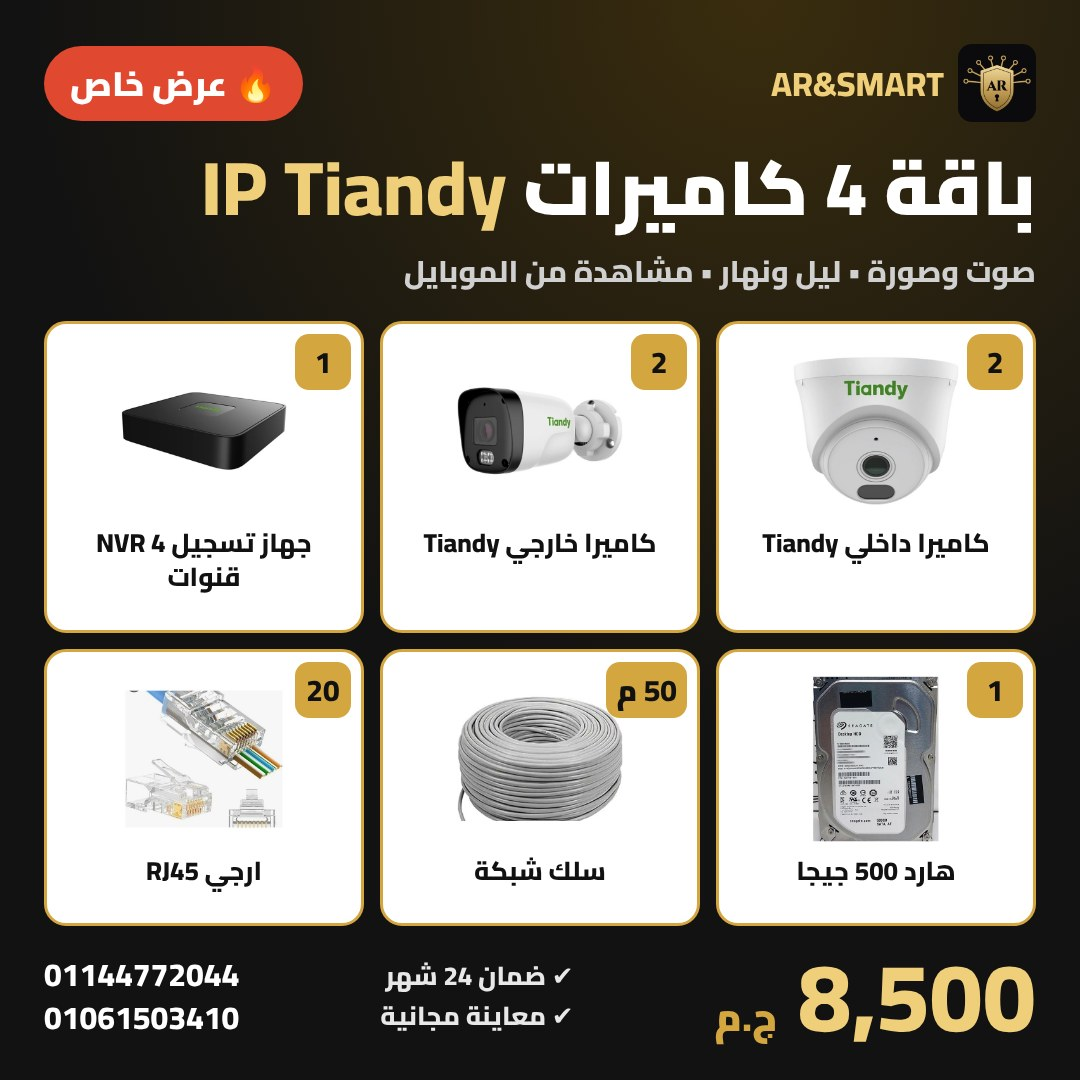
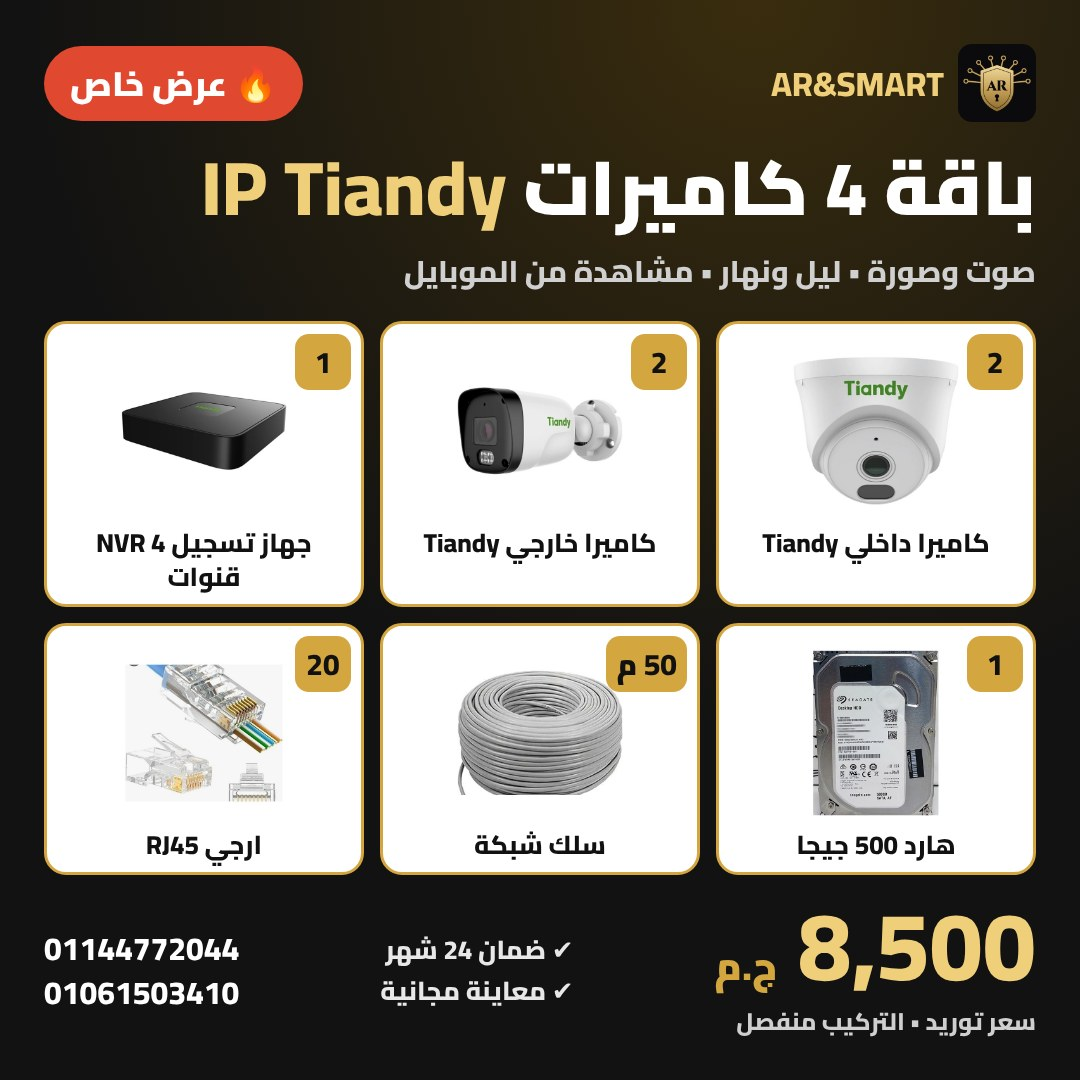
Offers: supply price, installation separate
Claude-Session: https://claude.ai/code/session_01BF18cvKDawFTu2vPtybSxZ

Changed region(s): [[0.0306, 0.55, 0.9778, 0.9778]]

diff --git a/index.html b/index.html
@@ -205,6 +205,7 @@ button{font:inherit}
 .off-shots{display:grid;grid-template-columns:1fr 1fr;gap:8px}.off-shots a{position:relative;display:block;border-radius:10px;overflow:hidden;border:1px solid var(--line)}.off-shots img{width:100%;aspect-ratio:16/9;object-fit:cover;display:block}.off-shots span{position:absolute;inset:auto 0 0 0;background:linear-gradient(transparent,rgba(0,0,0,.85));color:#fff;font-size:.78rem;padding:14px 8px 5px}
 .off-perks{list-style:none;margin:0;padding:0;display:flex;flex-wrap:wrap;gap:6px 14px;color:var(--ink);font-size:.9rem}
 .off-foot{display:flex;align-items:center;justify-content:space-between;gap:12px;flex-wrap:wrap;margin-top:4px}
+.off-note{color:var(--muted);font-size:.82rem}
 .off-price{font-family:var(--display);font-size:2.1rem;font-weight:700;color:var(--gold2)}.off-price small{font-size:1rem;color:var(--gold)}
 @media (max-width:420px){.off-foot .btn{flex:1 1 100%}}
 .stats{display:grid;grid-template-columns:repeat(3,1fr);gap:8px}
@@ -578,10 +579,10 @@ const quickForm=()=>`<form class="panel form" id="quickForm" novalidate>
 
 /* ===== العروض: لإضافة عرض جديد ضيف عنصر في OFFERS ===== */
 const OFFERS=[
- {id:"cam4",tag:"عرض كاميرات",title:"باقة 4 كاميرات IP Tiandy",sub:"2 داخلي + 2 خارجي — صوت وصورة، ليل ونهار، ومشاهدة من الموبايل.",banner:"img/off/banner-cam4.jpg",
+ {id:"cam4",tag:"عرض كاميرات",title:"باقة 4 كاميرات IP Tiandy",sub:"2 داخلي + 2 خارجي — صوت وصورة، ليل ونهار، ومشاهدة من الموبايل.",banner:"img/off/banner-cam4.jpg?v=2",
   items:[["dome","2","كاميرا داخلي Tiandy IP"],["bullet","2","كاميرا خارجي Tiandy IP"],["nvr","1","جهاز تسجيل NVR 4 قنوات"],["hdd500","1","هارد 500 جيجا"],["cable","50 م","سلك شبكة"],["rj45","20","ارجي RJ45"]],
   price:8500},
- {id:"cam8",tag:"عرض كاميرات",title:"باقة 8 كاميرات IP Tiandy",sub:"4 داخلي + 4 خارجي — صوت وصورة، ليل ونهار، ومشاهدة من الموبايل.",banner:"img/off/banner-cam8.jpg",
+ {id:"cam8",tag:"عرض كاميرات",title:"باقة 8 كاميرات IP Tiandy",sub:"4 داخلي + 4 خارجي — صوت وصورة، ليل ونهار، ومشاهدة من الموبايل.",banner:"img/off/banner-cam8.jpg?v=2",
   items:[["dome","4","كاميرا داخلي Tiandy IP"],["bullet","4","كاميرا خارجي Tiandy IP"],["nvr","1","جهاز تسجيل NVR 8 قنوات"],["hdd1t","1","هارد WD Purple 1 تيرا"],["cable","100 م","سلك شبكة Cat6"],["rj45","20","ارجي RJ45"]],
   price:13500}
 ];
@@ -590,8 +591,8 @@ const offerCard=o=>`<article class="offer" id="offer-${o.id}"><a class="off-ban"
  <div class="off-body"><span class="off-tag">🔥 ${o.tag}</span><h3>${o.title}</h3><p class="off-sub">${o.sub}</p>
  <h4>محتويات الباقة</h4><ul class="off-items">${o.items.map(([im,q,t])=>`<li><img src="img/off/${im}.jpg" alt="" loading="lazy"><b>${q}</b><span>${t}</span></li>`).join("")}</ul>
  <h4>صورة حقيقية من كاميرات ركّبناها</h4><div class="off-shots">${OFF_SHOTS.map(([l,i])=>`<a href="${i}" target="_blank" rel="noopener"><img src="${i.replace("img/w/","img/w/t/")}" alt="${l}" loading="lazy"><span>${l==="ليل"?"🌙":"☀"} ${l}</span></a>`).join("")}</div>
- <ul class="off-perks"><li>✔ ضمان 24 شهر</li><li>✔ معاينة مجانية</li><li>✔ مشاهدة من الموبايل</li></ul>
- <div class="off-foot"><div class="off-price">${fmt(o.price)} <small>ج.م</small></div><a class="btn gold" target="_blank" rel="noopener" href="${wa(`السلام عليكم، عايز عرض: ${o.title}\n${o.items.map(i=>`- ${i[1]} × ${i[2]}`).join("\n")}\nالسعر: ${fmt(o.price)} ج.م`)}">احجز العرض على الواتساب</a></div></div></article>`;
+ <ul class="off-perks"><li>✔ ضمان 24 شهر</li><li>✔ معاينة مجانية</li><li>✔ التركيب متاح بسعر منفصل</li><li>✔ مشاهدة من الموبايل</li></ul>
+ <div class="off-foot"><div><div class="off-price">${fmt(o.price)} <small>ج.م</small></div><div class="off-note">سعر توريد • التركيب حسب الموقع بعد المعاينة</div></div><a class="btn gold" target="_blank" rel="noopener" href="${wa(`السلام عليكم، عايز عرض: ${o.title}\n${o.items.map(i=>`- ${i[1]} × ${i[2]}`).join("\n")}\nالسعر: ${fmt(o.price)} ج.م (توريد)\nوعايز أعرف تكلفة التركيب`)}">احجز العرض على الواتساب</a></div></div></article>`;
 const offersSec=()=>OFFERS.length?`<section class="sec" id="offers"><div class="sec-h"><h2>🔥 العروض</h2>${OFFERS.length>1?`<a href="#offers-all">كل العروض ←</a>`:""}</div><div class="offers">${OFFERS.map(offerCard).join("")}</div></section>`:"";
 function viewHome(){
   return `<section class="hero">
